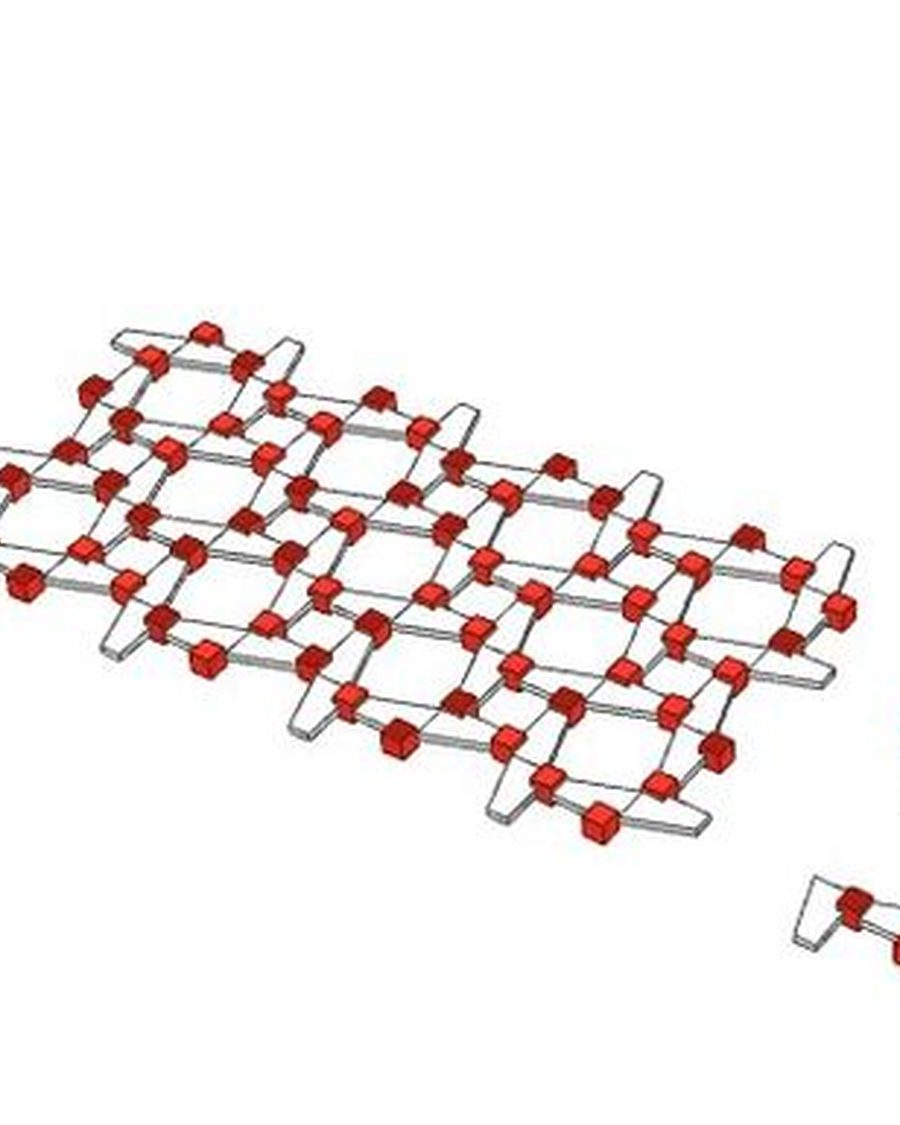
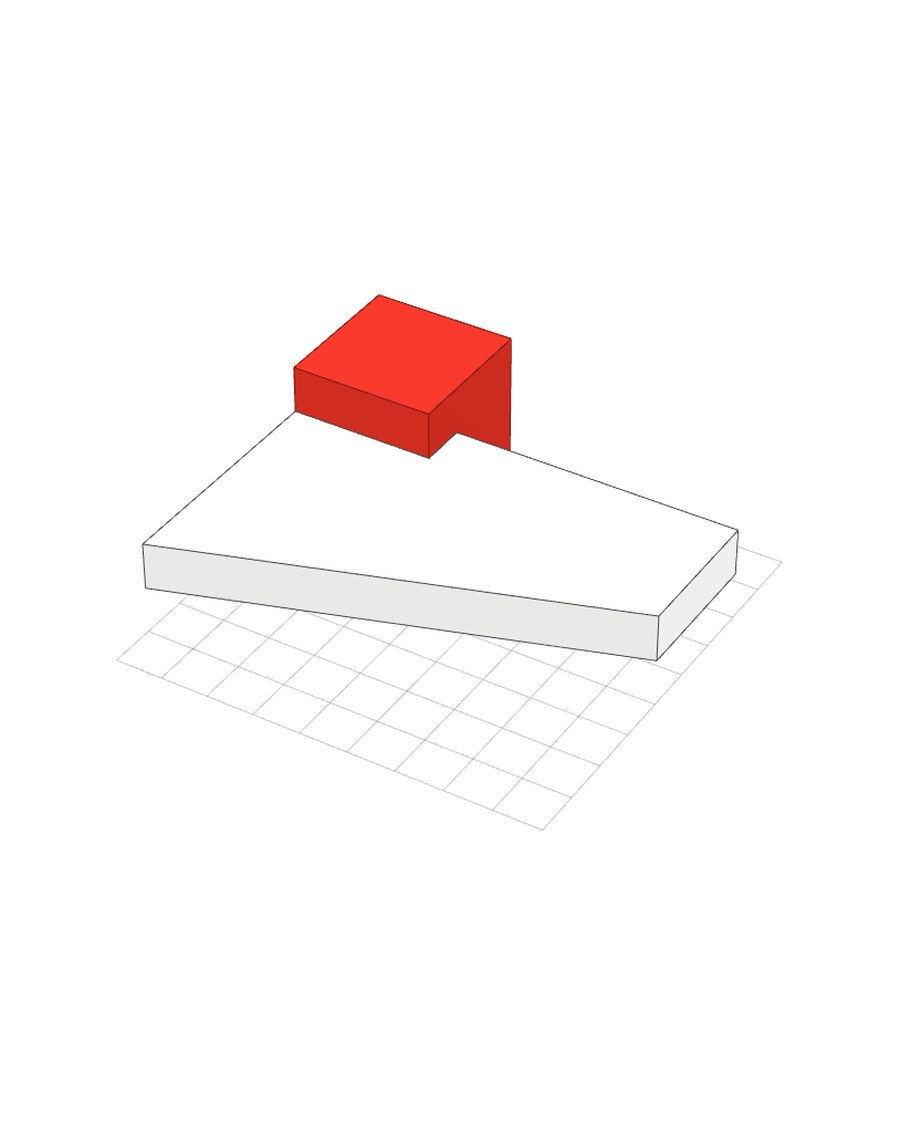
Home: copertina Matrice con il modulo singolo, progetti senza numeri
Claude-Session: https://claude.ai/code/session_01EApmSPsn6NNqRi4moP4oVx

Changed region(s): [[0.0, 0.2489, 0.9644, 0.7778], [0.8711, 0.7778, 1.0, 0.8711]]

diff --git a/index.html b/index.html
@@ -14,13 +14,13 @@
 <main class="home">
 <h1 class="bigname">Bartolomeo<br>Lodi-Fè</h1>
 <div class="strip prow" id="prow" aria-label="Progetti, scorrono in orizzontale"><a class="pcard" href="folia.html" draggable="false"><div class="pic"><img src="img/home/c-folia.jpg" alt="Folia" draggable="false"></div>
-<div class="cap"><span class="n">01</span><span class="t">Folia</span></div><div class="cap sub"><span>Prodotto</span><span class="note">2026</span></div></a><a class="pcard" href="trabucco.html" draggable="false"><div class="pic"><img src="img/home/c-trabucco.jpg" alt="Trabucco" draggable="false"></div>
-<div class="cap"><span class="n">02</span><span class="t">Trabucco</span></div><div class="cap sub"><span>Prodotto</span><span class="note">2026</span></div></a><a class="pcard" href="trattato.html" draggable="false"><div class="pic"><img src="img/home/c-trattato.jpg" alt="Trattato del ribelle/Guerrino" draggable="false"></div>
-<div class="cap"><span class="n">03</span><span class="t">Trattato del ribelle/Guerrino</span></div><div class="cap sub"><span class="bar">Comunicazione</span><span class="note">2026</span></div></a><a class="pcard" href="matrice.html" draggable="false"><div class="pic"><img src="img/home/c-matrice.jpg" alt="Matrice" draggable="false"></div>
-<div class="cap"><span class="n">04</span><span class="t">Matrice</span></div><div class="cap sub"><span>Basic Design</span><span class="note">2025</span></div></a><a class="pcard" href="percorso-espositivo.html" draggable="false"><div class="pic"><img src="img/home/c-espositivo.jpg" alt="Percorso espositivo" draggable="false"></div>
-<div class="cap"><span class="n">05</span><span class="t">Percorso espositivo</span></div><div class="cap sub"><span class="bar">Comunicazione</span><span class="note">2026</span></div></a><a class="pcard" href="fritto-misto.html" draggable="false"><div class="pic"><img src="img/home/c-fritto.jpg" alt="Fritto Misto" draggable="false"></div>
-<div class="cap"><span class="n">06</span><span class="t">Fritto Misto</span></div><div class="cap sub"><span class="bar">Comunicazione</span><span class="note">2025</span></div></a></div>
-<div class="strip-bar"><span>Progetti 01–06</span><span>Trascina o scorri</span></div>
+<div class="cap"><span class="t">Folia</span></div><div class="cap sub"><span>Prodotto</span><span class="note">2026</span></div></a><a class="pcard" href="trabucco.html" draggable="false"><div class="pic"><img src="img/home/c-trabucco.jpg" alt="Trabucco" draggable="false"></div>
+<div class="cap"><span class="t">Trabucco</span></div><div class="cap sub"><span>Prodotto</span><span class="note">2026</span></div></a><a class="pcard" href="trattato.html" draggable="false"><div class="pic"><img src="img/home/c-trattato.jpg" alt="Trattato del ribelle/Guerrino" draggable="false"></div>
+<div class="cap"><span class="t">Trattato del ribelle/Guerrino</span></div><div class="cap sub"><span class="bar">Comunicazione</span><span class="note">2026</span></div></a><a class="pcard" href="matrice.html" draggable="false"><div class="pic"><img src="img/home/c-matrice.jpg" alt="Matrice" draggable="false"></div>
+<div class="cap"><span class="t">Matrice</span></div><div class="cap sub"><span>Basic Design</span><span class="note">2025</span></div></a><a class="pcard" href="percorso-espositivo.html" draggable="false"><div class="pic"><img src="img/home/c-espositivo.jpg" alt="Percorso espositivo" draggable="false"></div>
+<div class="cap"><span class="t">Percorso espositivo</span></div><div class="cap sub"><span class="bar">Comunicazione</span><span class="note">2026</span></div></a><a class="pcard" href="fritto-misto.html" draggable="false"><div class="pic"><img src="img/home/c-fritto.jpg" alt="Fritto Misto" draggable="false"></div>
+<div class="cap"><span class="t">Fritto Misto</span></div><div class="cap sub"><span class="bar">Comunicazione</span><span class="note">2025</span></div></a></div>
+<div class="strip-bar"><span>Sei progetti</span><span>Trascina o scorri</span></div>
 </main>
 <style>
 .home{display:flex;flex-direction:column;gap:20px;padding:20px 0 24px;min-height:calc(100vh - 82px)}
@@ -35,7 +35,7 @@
 .pcard .cap .n{width:28px}
 .pcard .cap .t{flex:1}
 .pcard *{text-decoration:none}.pcard:hover .cap .t{text-decoration:underline}
-.pcard .sub{font-size:12px;padding-left:36px;justify-content:space-between}
+.pcard .sub{font-size:12px;justify-content:space-between}
 @media (max-width:760px){.home{--ph:90vw}.pcard{width:72vw}}
 </style>
 <script>
